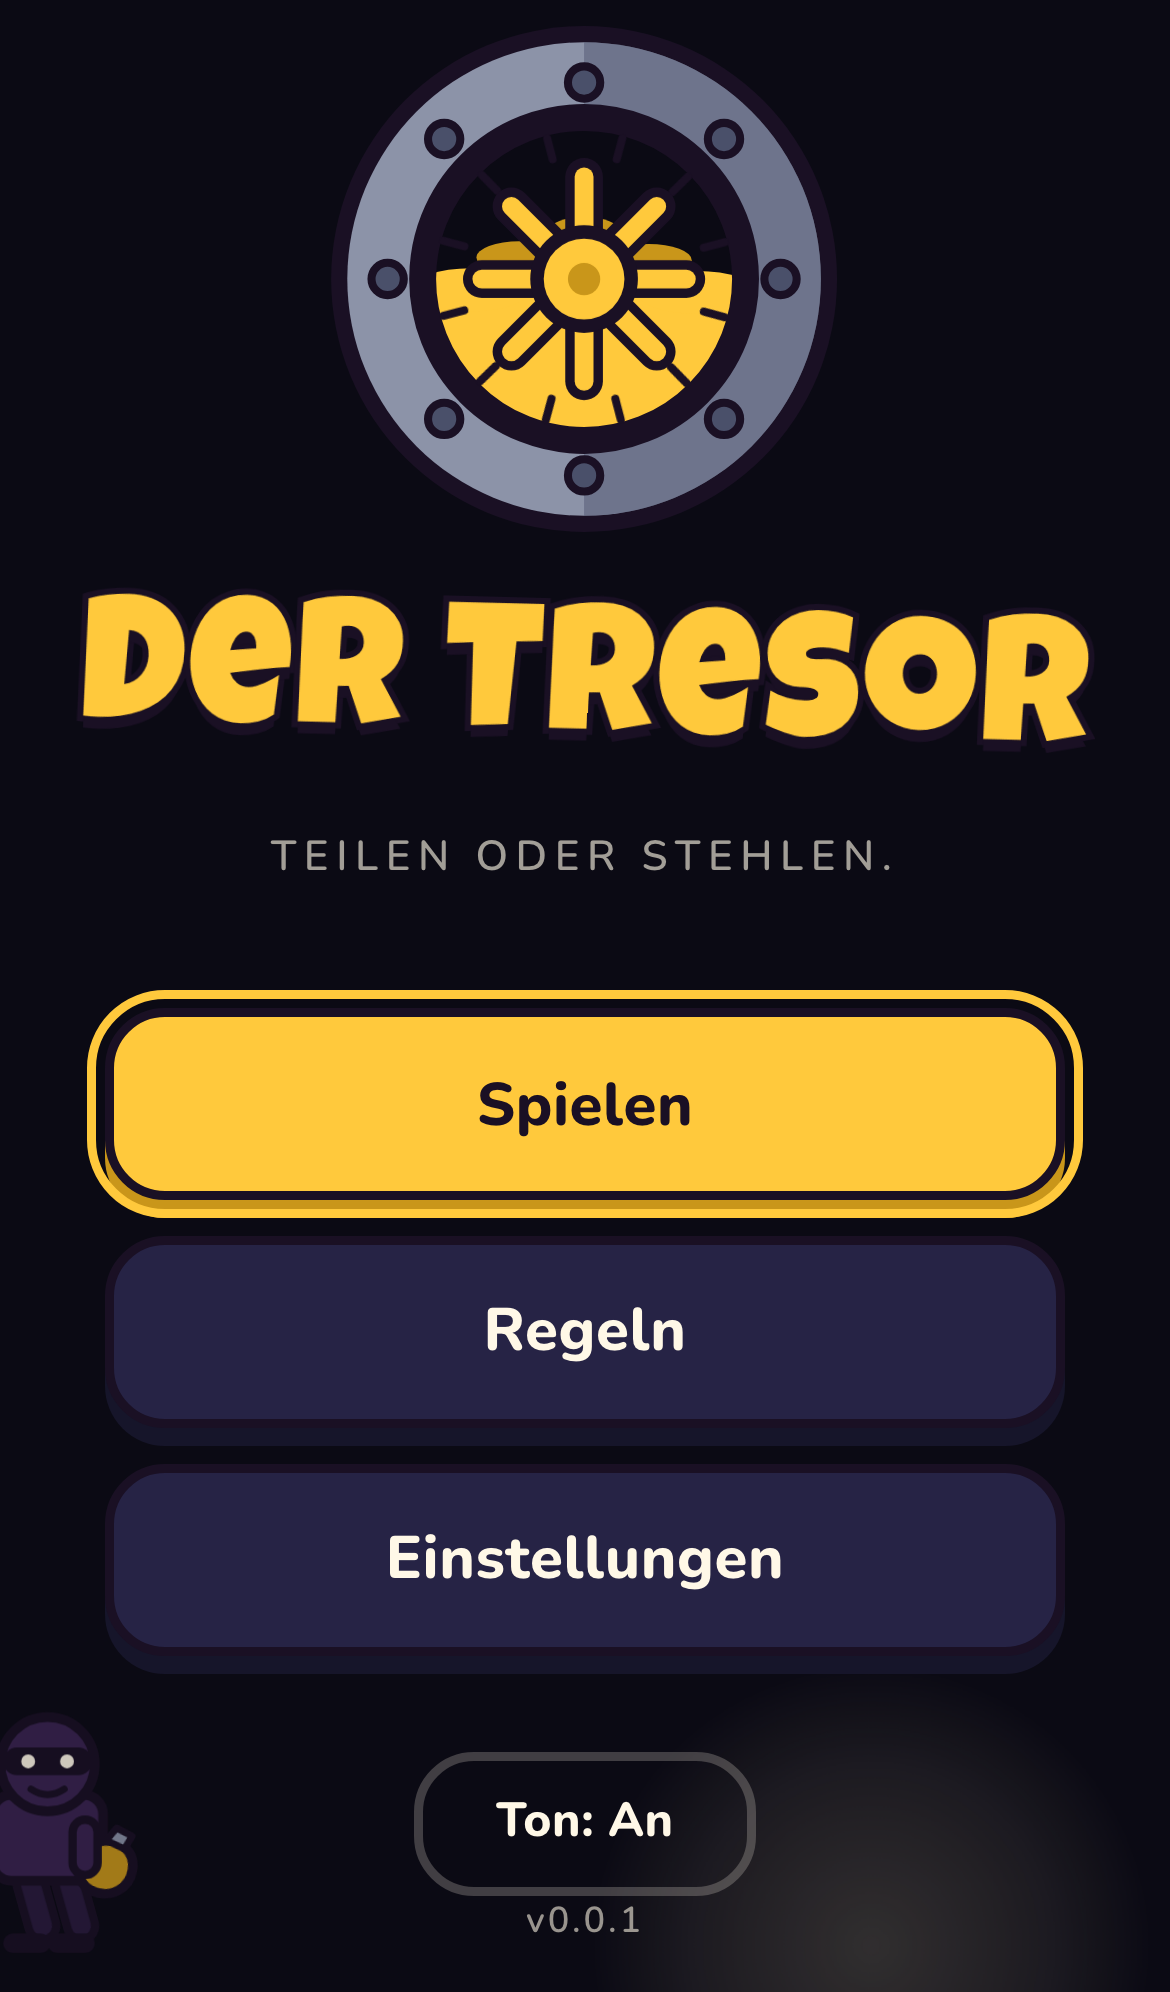
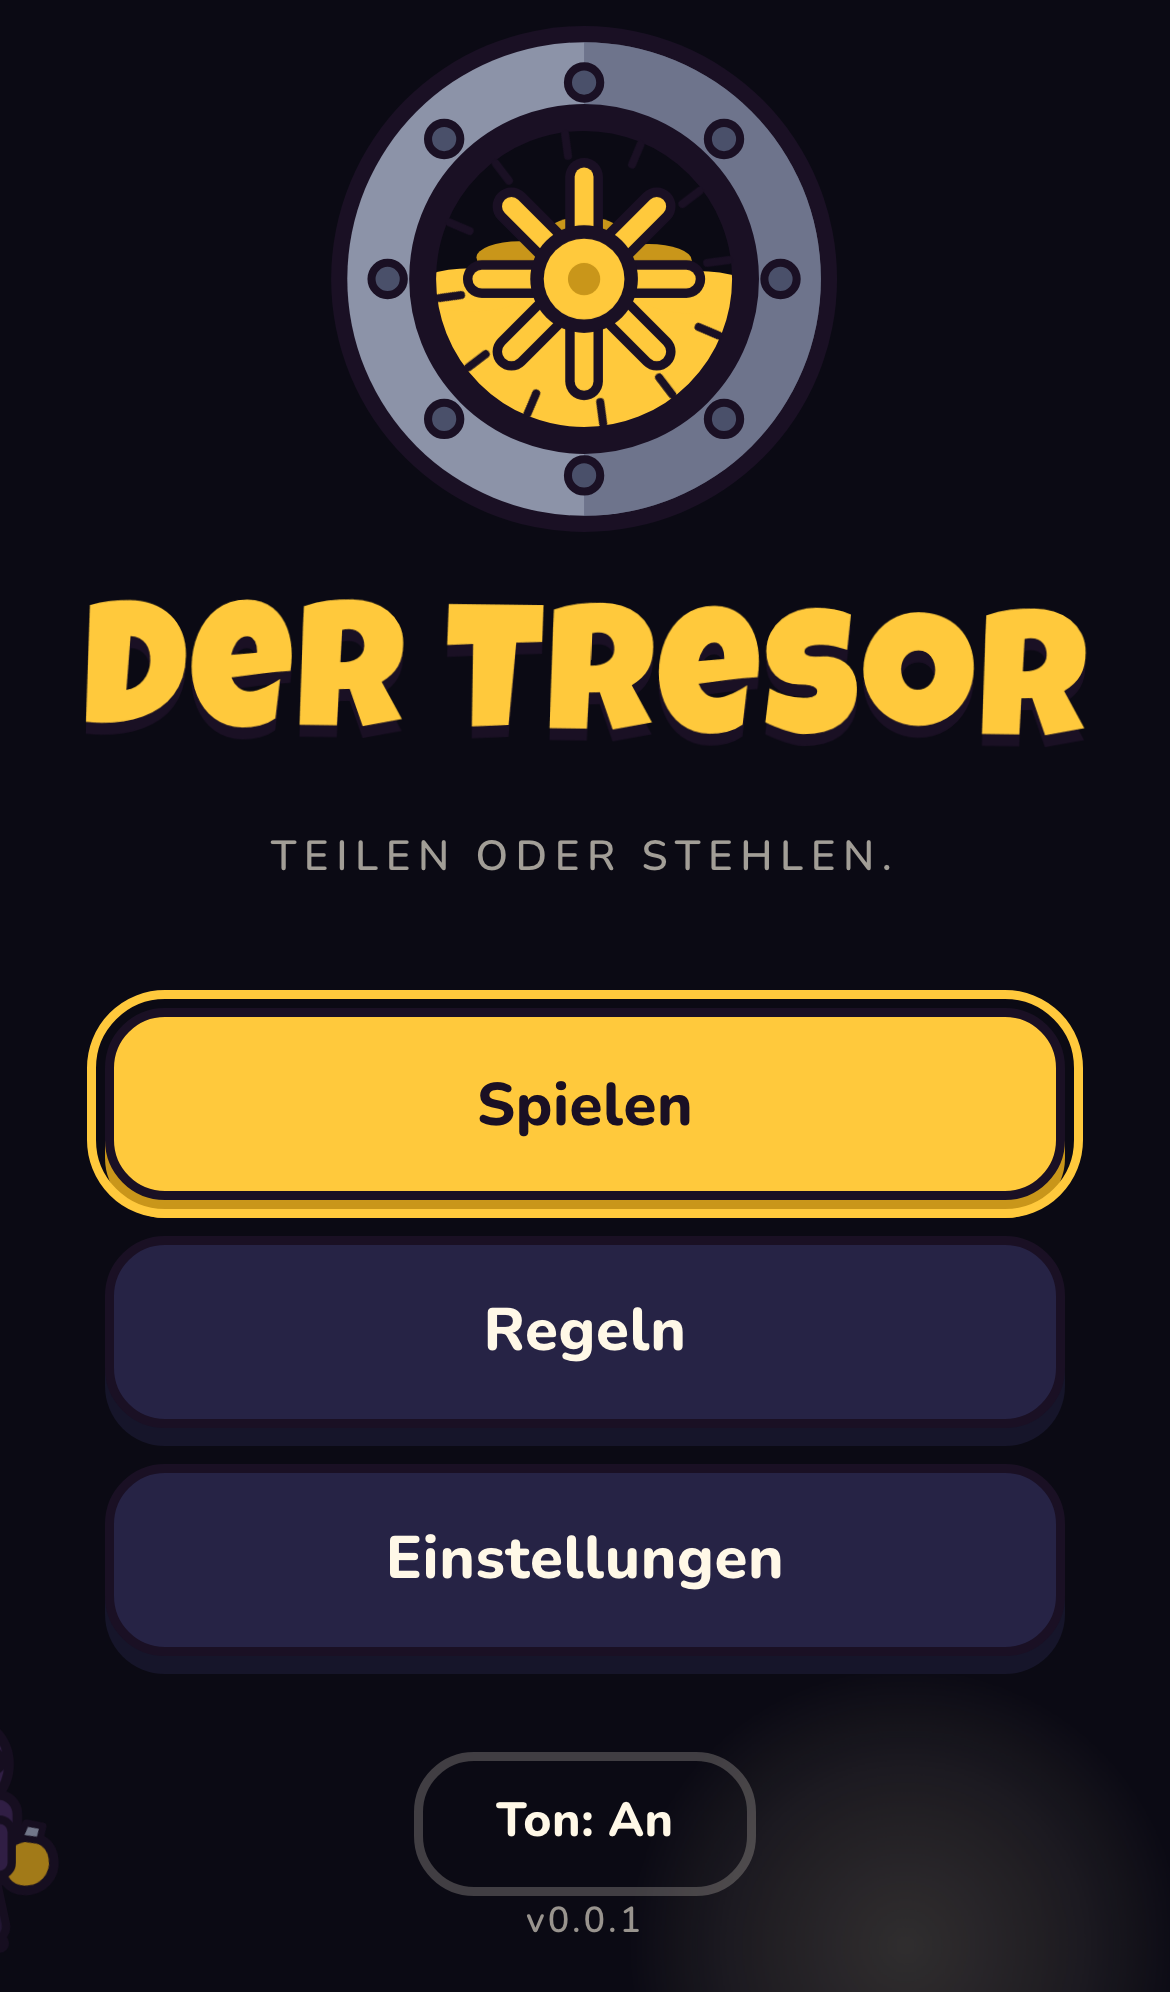
docs(m5): Audit A5, ADR-26 bis ADR-29, Lighthouse 99/100/100
Lighthouse Mobile: Performance 99 · Accessibility 100 · Best Practices 100.
Der einzige A11y-Befund war die Sticker-Kontur des Titels: axe wertet eine
4-px-Kontur als effektive Vordergrundfarbe und rechnet Tinte gegen
Fast-Schwarz. Ueber dunklem Grund ist sie ohnehin unsichtbar — sie bleibt
dort, wo sie etwas leistet (ADR-27, Art Direction §3).

Ausserdem: `<main>` statt `<div>` als App-Root, damit ein Screenreader einen
Sprungpunkt in den Inhalt hat.

Perf haelt auch mit laufender Musik: p50 16,7 ms, 2 Draw-Calls.
662 Unit-Tests, 48 E2E, 3 Perf gruen.

Claude-Session: https://claude.ai/code/session_01DssCZQmhNK832dZjA2UjLM

diff --git a/index.html b/index.html
@@ -38,8 +38,13 @@
     <link rel="preload" href="./fonts/nunito-var.woff2" as="font" type="font/woff2" crossorigin />
   </head>
   <body>
-    <!-- App-Root: 100dvh, overflow hidden, Safe-Areas (Architektur §9) -->
-    <div id="app"></div>
+    <!--
+      App-Root: 100dvh, overflow hidden, Safe-Areas (Architektur §9).
+      `<main>` statt `<div>`: Jede Seite braucht genau einen Hauptbereich, sonst hat ein
+      Screenreader keinen Sprungpunkt in den Inhalt (Audit A5, Lighthouse
+      "landmark-one-main"). Der Router tauscht darin die Screens aus.
+    -->
+    <main id="app"></main>
 
     <!-- Landscape-Overlay auf Mobile; Texte kommen aus i18n (CLAUDE.md) -->
     <div class="orientation-lock" role="alertdialog" aria-live="polite">

diff --git a/src/styles/components.css b/src/styles/components.css
@@ -446,9 +446,16 @@
   line-height: 1;
   letter-spacing: 0.02em;
   color: var(--c-gold);
+  /*
+   * Nur Schlagschatten, **keine** Tintenkontur (Audit A5).
+   *
+   * Die Sticker-Kontur trennt Schrift von bunten Flaechen — auf dem tiefdunklen
+   * Title-Hintergrund trennt sie nichts, sie ist dort schlicht unsichtbar. Sichtbar ist
+   * sie nur fuer die Kontrastpruefung: axe wertet eine 4-px-Kontur als das, was man am
+   * Rand der Glyphe sieht, und rechnet Tinte gegen Fast-Schwarz — 1,07:1. Der Schatten
+   * traegt den Sticker-Look hier allein.
+   */
   text-shadow: var(--sticker-shadow);
-  -webkit-text-stroke: var(--sticker-stroke) var(--c-ink);
-  paint-order: stroke fill;
   animation: logo-wobble 4s ease-in-out infinite;
 }
 

diff --git a/docs/PROGRESS.md b/docs/PROGRESS.md
@@ -229,3 +229,55 @@
 - [ ] Weiterhin offen aus M2/M3: echtes iPhone 11 / Pixel 4a (60 fps), Look-Check gegen Art Direction §1, Spannungs-Test mit drei Personen, Urteil über die synthetisierten Platzhalter-Sounds.
 
 **Zahlen:** 646 Unit-Tests · 32 E2E-Tests · 3 Perf-Tests · 11 Inszenierungen (3,7–5,3 s) + 2 Overlays · 89 Atlas-Frames in 3 Texturen · p50 16,7 ms während der Show · 2 Draw-Calls.
+
+## M5 — Polish, Modi-Feinschliff, Juice & Accessibility — 2026-09-05 (Tag `v0.5.0`)
+
+**Stand:** Der Title hat seinen Loop, das Spiel hat Musik, jeder Screen hat seinen Moment. Beide Sprachen sind deckungsgleich, reduzierte Bewegung wird überall respektiert, und drei Fehlerfälle sind als Test festgehalten.
+
+**Was neu ist**
+
+- `assets-src/svg/dom/crook-sneak.svg` + Title-Loop in CSS — der Crook aus GDD §5.
+- `src/audio/music.ts` — drei synthetisierte Loops an einem Lookahead-Scheduler (ADR-26).
+- `src/core/share.ts` — der Satz zur Runde als reine Funktion; `traitorOfTheEvening()` in `session.ts`.
+- `src/ui/components/onboarding.ts` — zwei Sätze, je einmal pro Gerät.
+- `src/ui/dev/`, `scripts/check-bundle.mjs` (ADR-28), `tests/e2e/a11y.spec.ts`, `tests/e2e/resilience.spec.ts`, `tests/unit/share.test.ts`.
+
+## Audit A5 — 2026-09-05
+
+**Ergebnis:** BESTANDEN (alle MUSS-Checks grün; zwei Punkte brauchen echte Geräte)
+
+| Check | Status | Notiz |
+|---|---|---|
+| Lighthouse Mobile Perf/A11y/Best Practices ≥ 90 | ✅ | **Performance 99 · Accessibility 100 · Best Practices 100 · SEO 100** (Lighthouse 13.4, Mobile-Preset, Produktions-Build). FCP 1,3 s · LCP 1,9 s · TBT 0 ms. Desktop-Preset: 100/100/100/100. |
+| PWA installierbar | ✅ | Manifest, Icons und Service Worker stehen seit M1; der E2E-Fall "liefert ein installierbares Manifest" prüft Name, Start-URL, Display und Icon-Größen bei jedem Lauf. |
+| JS ≤ 450 KB gzip, Reveal-Chunk lazy | ✅ | **Einstieg 32,9 KB, gesamt 266,8 KB gzip.** `npm run check:bundle` folgt der statischen Import-Kette ab `index.html`, nicht nur der einen Datei aus dem `<script>`-Tag — nur so sieht man, ob die Bühne zurück in den Start gerutscht ist (ADR-28). Der Check fällt zusätzlich um, wenn ein Bühnen-Chunk statisch am Einstieg hängt. |
+| Kontrast ≥ 4,5:1 | ✅ | Lighthouse `color-contrast` grün. Der einzige Befund war der Titel: Die 4-px-Sticker-Kontur wird von axe als effektive Vordergrundfarbe gewertet — Tinte gegen Fast-Schwarz, 1,07:1. Die Kontur bleibt dort, wo sie etwas leistet (bunte Flächen), über dunklem Grund trägt der Schlagschatten allein (ADR-27). Optisch identisch. Die Spielerfarben prüft weiterhin `npm run check:colors`. |
+| Reduced-Motion | ✅ | E2E fand einen echten Fehler: Der Wackel-Knopf lief auch bei `reduce` weiter. Behoben — und ein Guard-Test liest jetzt das CSS und verlangt für **jede** Endlos-Animation eine Abschaltregel. Einmaliges Aufploppen bleibt erlaubt; was dauerhaft läuft, nicht. Zusätzlich prüft ein E2E-Fall über `document.getAnimations()`, dass auf dem Title bei `reduce` nichts mehr läuft — und dass sich der ganze Weg bis zur Aufdeckung trotzdem spielen lässt. |
+| Tastatur-Navigation (SOLL) | ✅ | Der Router setzt den Fokus nach jedem Wechsel in den neuen Screen (E2E-Fall), jeder Screen hat genau eine H1, jede Taste einen Namen — auch die Icon-Knöpfe über `aria-label`. Kassels Kommentare laufen über `aria-live="polite"`: Er ist Deko und darf den Countdown nicht unterbrechen. |
+| EN vollständig | ✅ | Drei maschinelle Fragen statt Hinsehen: identische Key-Mengen in beiden Sprachen, kein leerer Text, dieselben Platzhalter. Der letzte Punkt ist der stille Fehler — ein `{name}`, das nur in einer Sprache steht, lässt den Satz lesbar, nur fehlt der Name genau dort, wo er die Pointe trägt. |
+| Alle Modus-Kombinationen spielbar | ✅ | Eid + Maulwurf und Nachtschicht + Highroller laufen im E2E-Flow; die Payout-Property-Tests ziehen alle 16 Kombinationen über 10 000 Runden. Neu ist die **Ansage im UI**: Ein Satz unter den Modi erklärt, was zusammen passiert (GDD §3.7). |
+| Title-Loop 10 min ohne Leak | ⏳ manuell | Der Loop ist reines CSS auf zwei DOM-Knoten — es gibt nichts, was wachsen könnte, und der Screen wird beim Verlassen ersetzt. Eine echte Zehn-Minuten-Messung auf einem Gerät steht aus. |
+| Share-Text korrekt | ✅ | `core/share.ts` ist eine reine Funktion und wird wie eine Regel getestet: fünf Ausgänge, fünf verschiedene Sätze, Meineid schlägt den Alleingang, keine offenen Platzhalter, beide Sprachen, und ein Spieler, der nicht mehr in der Liste steht, bringt nichts zum Absturz. Geteilt wird über die Web-Share-API, Zwischenablage als Rückfall, Toast als letzter. |
+| Fehlerfälle (Offline, Atlas-Fehler) | ✅ | `resilience.spec.ts`: Netzabbruch mitten in der Runde (die Aufdeckung läuft aus dem Speicher weiter), fehlender Atlas (DOM-Kartenreihe übernimmt, die Runde endet regulär in der Verteil-UI), unbrauchbarer `localStorage` (Safari Private Mode). Der erste Fall fand einen echten Fehler — siehe unten. |
+
+**Befunde während der Umsetzung**
+
+- **Der Wackel-Knopf ignorierte reduzierte Bewegung.** `btn--wobble` hatte als einzige Endlos-Animation keine `prefers-reduced-motion`-Regel. Gefunden hat es nicht das Auge, sondern `document.getAnimations()` im E2E — und ein Guard-Test hält es jetzt fest.
+- **Vorladen ohne `catch` ist ein Fehler in fremder Konsole.** Bricht während der Verhandlung das WLAN weg, scheitert der Bühnen-Import. Die Aufdeckung fällt danach sauber auf die DOM-Karten zurück — die unbehandelte Rejection blieb trotzdem stehen (ADR-29).
+- **Die Sticker-Kontur kostete zwölf A11y-Punkte.** Über dunklem Grund ist sie unsichtbar — außer für den Kontrastprüfer, der sie als Vordergrundfarbe wertet (ADR-27).
+- **Kassel hätte zweimal geredet.** Der Director warf pauschal einen Satz ein, jede M4-Sequenz noch einen an ihrer Pointe — der zweite wäre über den Trinkzahlen gelandet (ADR-23, in M4 behoben, hier durch die Musik-Umstellung nochmals berührt).
+- **Ein fremder Dev-Server saß auf Port 4173.** Ein `vite preview` aus einem anderen Projekt hielt den Port und beantwortete alles mit 404 — das erklärt die sporadisch scheiternden E2E-Läufe der letzten beiden Meilensteine. Prozess beendet; die Läufe sind seitdem stabil.
+- **Der Title-Loop lag zuerst auf halber Höhe** und verschwand hinter den Buttons. Er läuft jetzt am unteren Rand entlang, wo er die ganze Breite hat.
+- **Die Nachtschicht-Uhr hatte einen Rand zu viel.** Mit Zifferblattrand standen zwei Kreise übereinander und lasen sich als Doppelanzeige. Es bleiben zwölf Striche und der Zeiger.
+
+**Offene SOLL-Follow-ups:** Video `docs/screens/m4-outcomes.mp4` (aus M4).
+
+**Manuelle Checks für Luka vor M6:**
+
+- [ ] Title-Loop zehn Minuten auf einem echten Gerät laufen lassen: Bleibt der Speicher flach, bleibt die Bildrate stabil?
+- [ ] Musik anhören. Die drei Loops sind synthetisiert (ADR-19/26) — trägt der Heist-Jazz über einen Abend, oder nervt er nach zwei Runden? Lautstärke gegen die Cues abgleichen.
+- [ ] Onboarding: Zwei Sätze, je einmal. Reicht das, oder fehlt ein dritter (Verteil-UI)? `localStorage.removeItem('tresor.onboarding.v1')` zeigt sie wieder.
+- [ ] Teilen-Text auf dem Handy antippen: Kommt das System-Share-Blatt, und liest sich der Satz in WhatsApp gut?
+- [ ] Weiterhin offen aus M2–M4: echtes iPhone 11 / Pixel 4a (60 fps), Look-Check gegen Art Direction §1, Spannungs-Test mit drei Personen, „Lustig-Test" der elf Inszenierungen, Gewichtung der Sequenzen nach dem ersten Abend.
+
+**Zahlen:** 662 Unit-Tests · 32 E2E (Flow) + 10 (A11y) + 6 (Resilienz) · 3 Perf-Tests (p50 16,7 ms auch mit laufender Musik) · Lighthouse Mobile 99/100/100/100 · Einstieg 32,9 KB gzip, gesamt 266,8 KB · 3 Musik-Loops, 26 Cues, alle synthetisiert.

diff --git a/docs/DECISIONS.md b/docs/DECISIONS.md
@@ -76,3 +76,15 @@ Kontext: Die Prügelwolke bestand aus fünf `props/smoke`-Sprites auf 3,4- bis 4
 
 ## ADR-25 · 2026-09-04 · `props/sign_deal` liegt im front-Atlas
 Kontext: Das Schild „WIR HATTEN EINEN DEAL" lag als `crooks/sign_deal.svg` im crooks-Atlas, `room.spawnProp()` sucht aber im front-Atlas — die Sequenz wäre zur Laufzeit mitten in der Aufdeckung gestorben. Entscheidung: Die SVG ist nach `props/` gewandert; ein Unit-Test gleicht jeden Frame-Namen in `src/game/` gegen die Atlas-Manifeste ab. Konsequenz: Ein Tippfehler oder ein verschobenes Asset fällt in der Unit-Suite auf, nicht auf der Bühne.
+
+## ADR-26 · 2026-09-05 · Musik ist ein Lookahead-Scheduler, kein Timer
+Kontext: GDD §6 nennt drei Musik-Loops. Ein `setInterval`, das `play()` aufruft, ruckelt genau dann, wenn der Hauptthread zu tun hat — und das ist bei uns die Aufdeckung mit 90 Konfetti und acht Crooks. Entscheidung: `audio/music.ts` schaut alle 90 ms nach und plant alles, was in den nächsten 320 ms fällig ist, exakt auf der Audio-Uhr ein; die Loops sind Sechzehntel-Raster aus Oszillatoren, synthetisiert wie die Cues (ADR-19). Konsequenz: Der Takt hält auch unter Last, `duckMusic()` trifft die Musik weiterhin mit, und die Zuordnung Screen → Loop steht im Router — der einzigen Stelle, die jeden Wechsel sieht.
+
+## ADR-27 · 2026-09-05 · Keine Sticker-Kontur über dunklem Grund
+Kontext: Der Titel trug wie alle Display-Schrift eine 4-px-Tintenkontur. Lighthouse/axe wertet eine Kontur dieser Stärke als effektive Vordergrundfarbe und rechnet Tinte (#1a1024) gegen den Hintergrund (#0b0a14) — 1,07:1, A11y-Score 88 statt der geforderten 90. Entscheidung: Die Kontur bleibt dort, wo sie etwas leistet (bunte Flächen, Badges, Karten); über dem tiefdunklen Grund trägt der Schlagschatten allein. Konsequenz: Optisch identisch — die Kontur war dort ohnehin unsichtbar —, Lighthouse Mobile jetzt Perf 99 / A11y 100 / Best Practices 100. Art Direction §3 hält die Regel fest.
+
+## ADR-28 · 2026-09-05 · Das Bundle-Budget misst die statische Import-Kette
+Kontext: Audit A5 fordert ein Budget für den Einstiegs-Chunk. Die Größe der einen Datei aus dem `<script>`-Tag sagt darüber wenig: Ein statisches `import"./x.js"` lädt der Browser mit, bevor er die erste Zeile ausführt, und wäre in der Zahl nicht sichtbar. Entscheidung: `scripts/check-bundle.mjs` folgt der statischen Import-Kette ab `index.html` und summiert sie; `import(...)` mit Klammern bleibt außen vor. Zusätzlich fällt der Check um, wenn ein Bühnen-Chunk in dieser Kette auftaucht. Konsequenz: Der Regressionsfall aus ADR-15 — ein zurückgerutschter statischer Import — wird als Zahl **und** im Klartext gemeldet, statt erst beim nächsten Ladezeitproblem aufzufallen.
+
+## ADR-29 · 2026-09-05 · Kein Vorladen ohne `catch`
+Kontext: Verhandlung und Nachtschicht laden den Bühnen-Chunk vor (`void import(...)`). Bricht dabei das Netz weg, ist das eine unbehandelte Promise-Rejection — sie steht als Fehler in der Konsole, obwohl die Aufdeckung danach sauber auf die DOM-Karten zurückfällt. Entscheidung: Vorladen schluckt seine Fehler ausdrücklich; wer wirklich braucht, was fehlt, meldet es dort, wo es gebraucht wird. Konsequenz: Der Offline-Fall in `resilience.spec.ts` ist grün, und die Konsole bleibt für echte Fehler frei.

diff --git a/README.md b/README.md
@@ -4,7 +4,7 @@ Ein Mobile-First Pass-the-Phone-Trinkspiel über Vertrauen und Verrat für 3–8
 
 Schwesterprojekt von [Drinkshot](https://github.com/lukabpunkt/Drinkshot) — gleicher Stack, gleiche Design-Sprache, gleiche Charaktere.
 
-**Status:** M4 fertig (`v0.4.0`) — die elf Ergebnis-Inszenierungen aus GDD §4.4 stehen. Der Alleingänger springt ins Fluchtauto, dem Doppel-Dieb fällt ein Amboss auf den Kopf, bei „alle stehlen" fällt das Gitter, und der Jackpot lässt den Tresor platzen. Zwei Overlays legen sich darüber: Meineid (Lügennase und Stempel) und Maulwurf. `npm run preview:outcomes` spielt jede Sequenz einzeln ab. Aktueller Stand in [`docs/PROGRESS.md`](docs/PROGRESS.md).
+**Status:** M5 fertig (`v0.5.0`) — Politur, Modi-Feinschliff und Barrierefreiheit. Der Title hat seinen Loop, es gibt Musik, der Eid wird gestempelt, das Ergebnis-Banner fährt ein, und die Runde lässt sich als Satz teilen. Lighthouse Mobile: Performance 99 · Accessibility 100 · Best Practices 100. Aktueller Stand in [`docs/PROGRESS.md`](docs/PROGRESS.md).
 
 ## Entwickeln
 
@@ -22,6 +22,7 @@ npm run dev            # Vite mit --host, auch vom Handy im WLAN erreichbar
 | `npm run test:e2e` · `test:perf`                      | Playwright auf iPhone 12 (WebKit) und Pixel 5 (Chromium) |
 | `npm run build:atlas` · `build:audio` · `build:icons` | Assets aus `assets-src/` bzw. `audio-src/`               |
 | `npm run check:colors`                                | Farb-Audit: Deuteranopie/Protanopie über CIE Lab (A2)    |
+| `npm run check:bundle`                                | Bundle-Budget nach `npm run build` (A5)                  |
 | `npm run preview:outcomes`                            | Jede Inszenierung und jedes Overlay einzeln abspielen    |
 
 ## Aufbau

diff --git a/docs/02-ART-DIRECTION.md b/docs/02-ART-DIRECTION.md
@@ -46,6 +46,8 @@ Kontrastregeln wie Drinkshot (≥ 4.5:1, `ink` auf Gold/Grün/Cyan).
 
 Identisch zu Drinkshot (*Luckiest Guy* Display, *Nunito* Body, self-hosted). Zusätzlich für den Tresor-Zähler ein **Flip-Counter-Look** (Split-Flap-Anzeige wie am Bahnhof): Ziffern in Luckiest Guy auf dunklen Klappen, jede Änderung als Klapp-Animation (120 ms, `back.out`), Sound `vault_dial`.
 
+**Sticker-Kontur nur über bunten Flächen.** Die 4-px-Tintenkontur (`-webkit-text-stroke`) trennt Schrift von Spielerfarben, Bannern und Karten. Über dem tiefdunklen Hintergrund trennt sie nichts — dort trägt der Schlagschatten den Look allein. Grund ist nicht nur Optik: Kontrastprüfer werten eine so dicke Kontur als das, was man am Rand der Glyphe sieht, und rechnen Tinte gegen Fast-Schwarz (1,07:1). Der Titel hatte deshalb Lighthouse-A11y 88 statt 100 (ADR-27).
+
 ---
 
 ## 4. UI-Komponenten (Ergänzungen zum Drinkshot-System)
